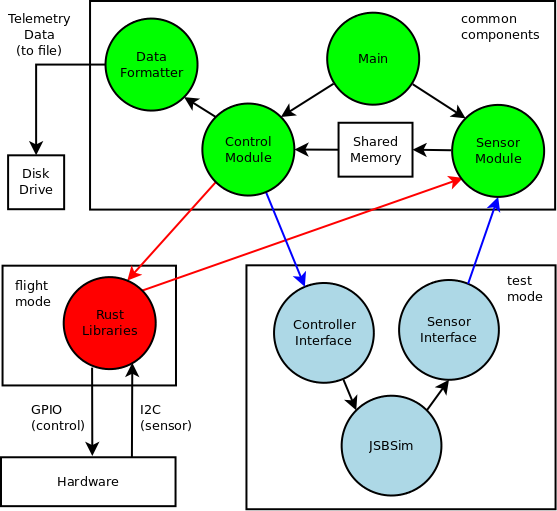
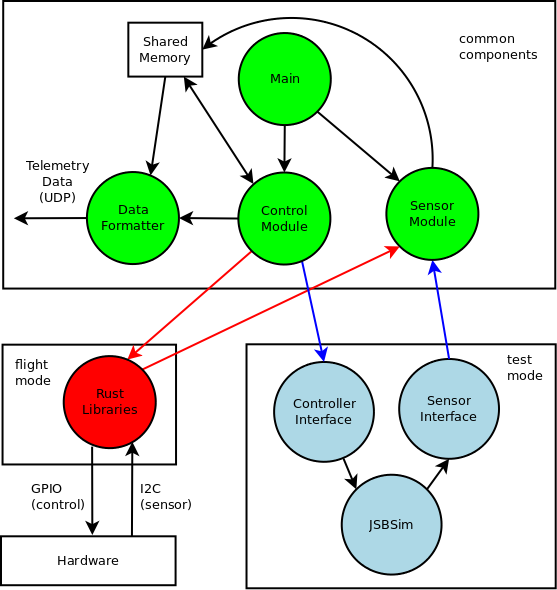
giving the data formatter access to shared memory

diff --git a/docs/Architecture.md b/docs/Architecture.md
@@ -27,6 +27,7 @@ The main module is executed at program startup and does the following:
 * Initializes the shared memory interface
 * Passes the location of shared memory to the sensor module initialization
 * Passes the location of shared memory to the control module initialization
+* Passes the location of shared memory to the data formatter initialization
 * Sets up a mechanism to execute the main loop at a periodic rate
 * Drops into the main loop where:
     * Sensor updates are requested from the sensor module
@@ -34,7 +35,7 @@ The main module is executed at program startup and does the following:
 
 
 #### Control Module
-The control module implements the control algorithm. Sensor data is retrieved from shared memory and GPIO pins are asserted for course correction. The control module provides :
+The control module implements the control algorithm. Sensor data is retrieved from shared memory and GPIO pins are asserted for course correction. Control state is stored in shared memory for the data formatter to access. The control module provides:
 
 * An initialization function that receives the location of shared memory and sets up the control hardware
 * An update function that uses sensor data contained in shared memory 
@@ -48,19 +49,18 @@ The sensor module retrieves sensor data and stores it in shared memory.  The sen
 * An update function that reads sensor data from hardware and stores it in shared memory
 
 #### Data Formatter
-The data formatter gets telemetry data from the control module, transforms it to [psas-packet format](http://psas-packet-serializer.readthedocs.org/), and writes it out to a file.
+The data formatter gets telemetry data from shared memory, transforms it to [psas-packet format](http://psas-packet-serializer.readthedocs.org/), and writes it out as a UDP packet.
 
 
 ### _Flight Mode Components_
-#### Std Rust Libraries
+#### Embedded Rust Libraries
 During flight mode, the system reads sensor input and dispatches control signals via [I2C](https://github.com/rust-embedded/rust-i2cdev) and [GPIO](https://github.com/rust-embedded/rust-sysfs-gpio) Rust libraries.
 
 
 ### _Test Mode Components_
 #### Controller Interface
 The controller interface provides a set of functions that are equivalent to
-the function calls made by the control module in flight mode. Hardware
-compatible compatible data received from the control module is converted to
+the function calls made by the control module in flight mode. Hardware compatible data received from the control module is converted to
 a compatible format and sent on to JSBSim.
 
 #### Sensor Interface
@@ -70,6 +70,6 @@ is retrieved, converted into a hardware compatible format, and made available
 to the sensor module.
 
 #### JSBSim
-JSBSim is commercial off the shelf (COTS) software that is used to
+JSBSim is open source software that is used to
 simulate sensor outputs based on control inputs.
 
